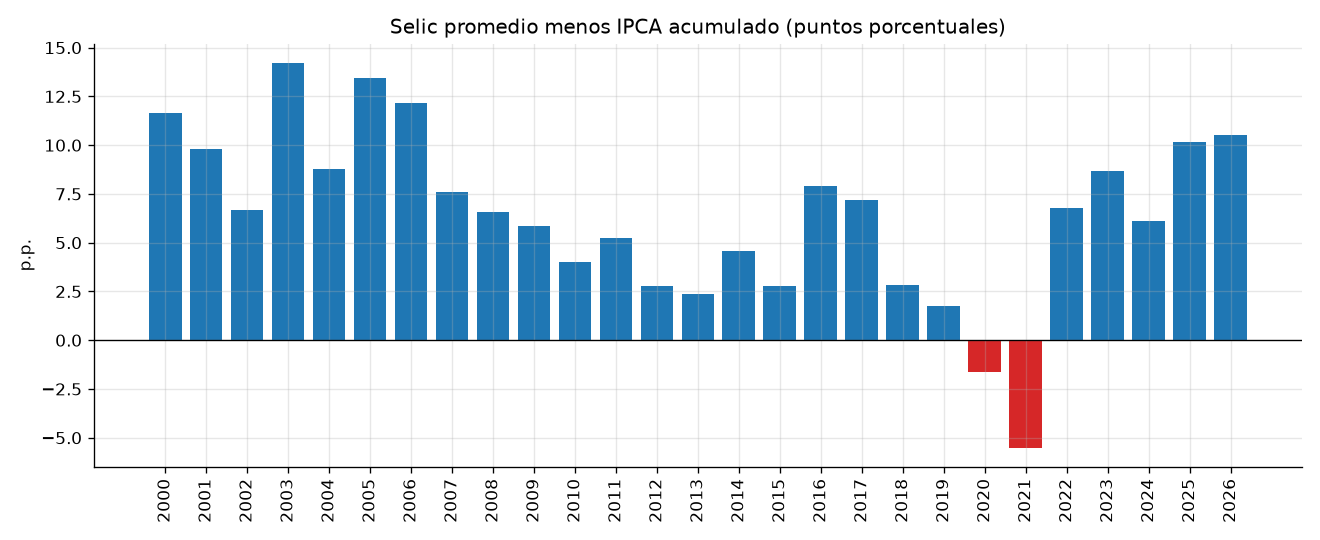
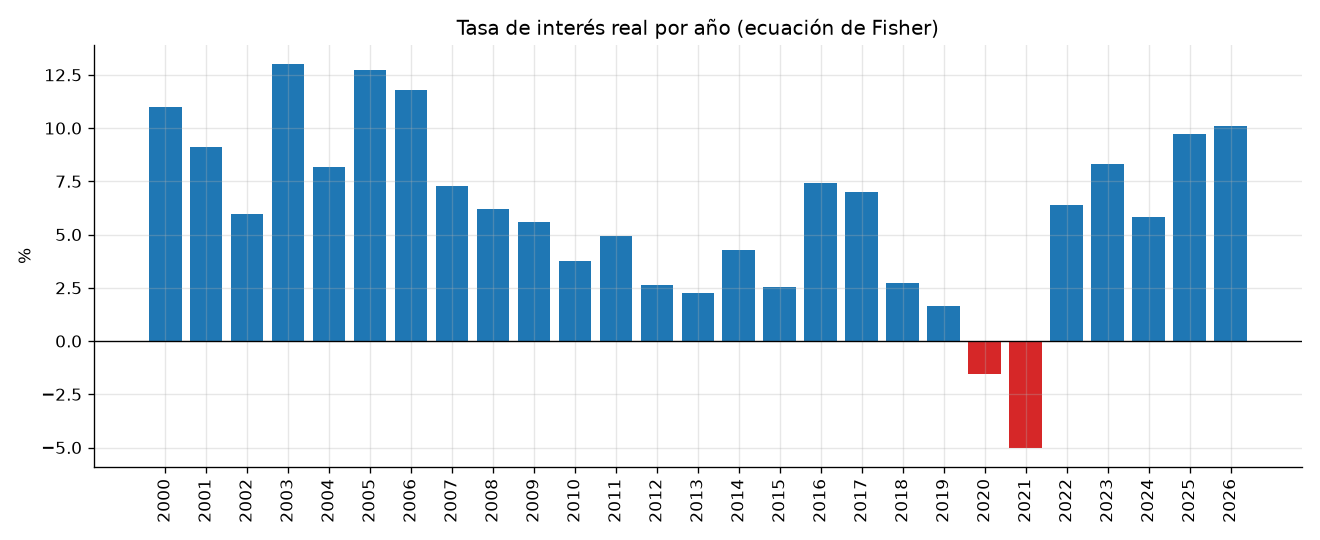
Tasa de interés real con la ecuación de Fisher
- src/consultas.py: tasa_real_fisher(), (1 + i) / (1 + π) − 1; la usan el
  dashboard y el notebook (que ya no repite el cálculo)
- sql/consultas.sql: ipca_anual devuelve tasa_real_pct (Fisher) en vez de
  la resta diferencia_pp
- dashboard: textos en los tres idiomas pasan de "aprox." y p.p. a Fisher y %
- notebook ejecutado de nuevo; figura y capturas actualizadas
- README: hallazgo 3 recalculado (mínimo −4,35 %, máximo 10,78 %, hoy 8,77 %)
- tests: 3 pruebas nuevas (58 en total)

diff --git a/dashboard/idiomas.py b/dashboard/idiomas.py
@@ -35,13 +35,12 @@ TEXTOS = {
         "minimo": "Minimum ({fecha})",
         "selic_meta": "Selic target",
         "ipca_12m": "IPCA 12 months",
-        "tasa_real": "Approx. real rate",
-        "unidad_pp": "pp",
+        "tasa_real": "Real rate (Fisher)",
         "sin_datos_real": "No Selic and IPCA data in the selected range.",
-        "nota_real": "Latest month with IPCA: {mes}. Approx. real rate = Selic target − 12-month IPCA.",
+        "nota_real": "Latest month with IPCA: {mes}. Real rate = (1 + Selic target) / (1 + 12-month IPCA) − 1 (Fisher equation).",
         "linea_selic": "Selic target (% p.a.)",
         "linea_ipca": "IPCA 12 months (%)",
-        "barra_real": "Real rate (pp)",
+        "barra_real": "Real rate (%)",
         "promedio_anual": "Yearly average",
         "datos_filtrados": "Filtered data",
         "descargar": "Download CSV",
@@ -68,13 +67,12 @@ TEXTOS = {
         "minimo": "Mínimo ({fecha})",
         "selic_meta": "Meta Selic",
         "ipca_12m": "IPCA 12 meses",
-        "tasa_real": "Juro real aprox.",
-        "unidad_pp": "p.p.",
+        "tasa_real": "Juro real (Fisher)",
         "sin_datos_real": "Sem dados de Selic e IPCA no período escolhido.",
-        "nota_real": "Último mês com IPCA: {mes}. Juro real aprox. = meta Selic − IPCA acumulado em 12 meses.",
+        "nota_real": "Último mês com IPCA: {mes}. Juro real = (1 + meta Selic) / (1 + IPCA em 12 meses) − 1 (equação de Fisher).",
         "linea_selic": "Meta Selic (% a.a.)",
         "linea_ipca": "IPCA 12 meses (%)",
-        "barra_real": "Juro real (p.p.)",
+        "barra_real": "Juro real (%)",
         "promedio_anual": "Média anual",
         "datos_filtrados": "Dados filtrados",
         "descargar": "Baixar CSV",
@@ -101,13 +99,12 @@ TEXTOS = {
         "minimo": "Mínimo ({fecha})",
         "selic_meta": "Selic meta",
         "ipca_12m": "IPCA 12 meses",
-        "tasa_real": "Tasa real aprox.",
-        "unidad_pp": "p.p.",
+        "tasa_real": "Tasa real (Fisher)",
         "sin_datos_real": "Sin datos de Selic e IPCA en el rango elegido.",
-        "nota_real": "Último mes con IPCA: {mes}. Tasa real aprox. = Selic meta − IPCA acumulado en 12 meses.",
+        "nota_real": "Último mes con IPCA: {mes}. Tasa real = (1 + Selic meta) / (1 + IPCA de 12 meses) − 1 (ecuación de Fisher).",
         "linea_selic": "Selic meta (% a.a.)",
         "linea_ipca": "IPCA 12 meses (%)",
-        "barra_real": "Tasa real (p.p.)",
+        "barra_real": "Tasa real (%)",
         "promedio_anual": "Promedio anual",
         "datos_filtrados": "Datos filtrados",
         "descargar": "Descargar CSV",

diff --git a/tests/test_consultas.py b/tests/test_consultas.py
@@ -58,7 +58,7 @@ def test_selic_vs_ipca_acumula_doce_meses():
     assert list(mensual.index) == [pd.Timestamp("2024-12-01")]
     esperado = (1.01 ** 12 - 1) * 100  # 12,68 %, no 12 %: la inflación se compone
     assert mensual["ipca_12m"].iloc[0] == pytest.approx(esperado)
-    assert mensual["tasa_real"].iloc[0] == pytest.approx(13.75 - esperado)
+    assert mensual["tasa_real"].iloc[0] == pytest.approx((1.1375 / (1 + esperado / 100) - 1) * 100)
 
 
 def test_selic_vs_ipca_toma_la_selic_del_ultimo_dia_del_mes():
@@ -69,3 +69,25 @@ def test_selic_vs_ipca_toma_la_selic_del_ultimo_dia_del_mes():
                          "valor": 0.4})
     mensual = consultas.selic_vs_ipca(pd.concat([selic, ipca]))
     assert mensual["selic"].iloc[-1] == 12.25
+
+
+def test_tasa_real_fisher_casos_conocidos():
+    assert consultas.tasa_real_fisher(10.0, 10.0) == pytest.approx(0.0)
+    assert consultas.tasa_real_fisher(13.75, 4.58) == pytest.approx(8.768, abs=0.001)
+    assert consultas.tasa_real_fisher(2.0, 8.0) == pytest.approx(-5.556, abs=0.001)
+
+
+def test_tasa_real_fisher_es_menor_que_la_resta_con_tasas_positivas():
+    """La resta (i − π) exagera la tasa real; la diferencia crece con la inflación."""
+    for selic, ipca in [(13.75, 4.58), (26.5, 17.24), (6.5, 3.0)]:
+        assert consultas.tasa_real_fisher(selic, ipca) < selic - ipca
+
+
+def test_ipca_anual_usa_fisher(base_de_prueba):
+    """Con Selic 10 % y IPCA 0,5 % mensual (6,17 % anual), la tasa real es 3,6 %."""
+    anual = consultas.ejecutar("ipca_anual")
+    fila = anual[anual["anio"] == "2024"].iloc[0]
+    assert fila["ipca_acumulado_pct"] == pytest.approx((1.005 ** 12 - 1) * 100, abs=0.01)
+    assert fila["tasa_real_pct"] == pytest.approx(
+        consultas.tasa_real_fisher(10.0, fila["ipca_acumulado_pct"]), abs=0.01
+    )

diff --git a/src/consultas.py b/src/consultas.py
@@ -26,14 +26,24 @@ def ejecutar(nombre: str) -> pd.DataFrame:
         return pd.read_sql_query(consultas[nombre], conexion)
 
 
+def tasa_real_fisher(nominal_pct, inflacion_pct):
+    """Tasa de interés real en % con la ecuación de Fisher: (1 + i) / (1 + π) − 1.
+
+    Restar (i − π) es solo una aproximación, que exagera la tasa real cuando las tasas son
+    altas: con Selic 13,75 % e inflación 4,58 % la resta da 9,17 y Fisher da 8,77 %.
+    Acepta números o Series de pandas.
+    """
+    return ((1 + nominal_pct / 100) / (1 + inflacion_pct / 100) - 1) * 100
+
+
 def selic_vs_ipca(series: pd.DataFrame) -> pd.DataFrame:
-    """Devuelve por mes la Selic meta al cierre, el IPCA acumulado en 12 meses y la tasa real."""
+    """Devuelve por mes la Selic meta al cierre, el IPCA acumulado en 12 meses y la tasa real (Fisher)."""
     ipca = series[series["codigo"] == 433].set_index("fecha")["valor"].sort_index()
     ipca_12m = ((1 + ipca / 100).rolling(12).apply(lambda x: x.prod(), raw=True) - 1) * 100
     selic = (series[series["codigo"] == 432].set_index("fecha")["valor"]
              .sort_index().resample("MS").last())
     mensual = pd.DataFrame({"selic": selic, "ipca_12m": ipca_12m}).dropna()
-    mensual["tasa_real"] = mensual["selic"] - mensual["ipca_12m"]
+    mensual["tasa_real"] = tasa_real_fisher(mensual["selic"], mensual["ipca_12m"])
     return mensual
 
 

diff --git a/dashboard/app.py b/dashboard/app.py
@@ -185,7 +185,7 @@ with pestaña_real:
         col1, col2, col3 = st.columns(3)
         col1.metric(T["selic_meta"], f"{ultimo['selic']:.2f} %")
         col2.metric(T["ipca_12m"], f"{ultimo['ipca_12m']:.2f} %")
-        col3.metric(T["tasa_real"], f"{ultimo['tasa_real']:.2f} {T['unidad_pp']}")
+        col3.metric(T["tasa_real"], f"{ultimo['tasa_real']:.2f} %")
         st.caption(T["nota_real"].format(mes=f"{mensual.index[-1]:%m/%Y}"))
 
         fig = go.Figure()

diff --git a/README.es.md b/README.es.md
@@ -16,13 +16,13 @@ Datos de enero de 2000 a octubre de 2026.
 
 1. **Del mínimo histórico a la tasa más alta en casi 20 años.** La Selic meta bajó a un mínimo histórico de **2,00 %** (agosto de 2020 – marzo de 2021) y subió a **15,00 %** en junio de 2025, su nivel más alto desde julio de 2006. Hoy está en 13,75 %.
 2. **Repunte de la inflación tras la pandemia.** El IPCA acumulado en 12 meses pasó de **1,88 %** en mayo de 2020 a **12,13 %** en abril de 2022, el más alto desde 2003. Desde el año 2000, la inflación anual solo superó el 10 % tres veces: 2002 (12,53 %), 2015 (10,67 %) y 2021 (10,06 %). Hoy está en 4,58 % (septiembre de 2026).
-3. **De tasas reales negativas a muy altas.** La tasa real (Selic menos IPCA de 12 meses) fue negativa en 20 de los 22 meses entre julio de 2020 y abril de 2022, con un mínimo de **−4,7 p.p.** en julio de 2021. Después llegó a **11,2 p.p.** en febrero de 2026, la más alta desde junio de 2006.
+3. **De tasas reales negativas a muy altas.** La tasa de interés real (ecuación de Fisher: Selic meta frente a IPCA de 12 meses) fue negativa en 20 de los 22 meses entre julio de 2020 y abril de 2022, con un mínimo de **−4,35 %** en julio de 2021. Después llegó a **10,78 %** en febrero de 2026, la más alta desde junio de 2006. Hoy está en 8,77 %.
 4. **El real perdió casi dos tercios de su valor frente al dólar.** El tipo de cambio pasó de 1,80 BRL/USD en enero de 2000 a 5,04 en octubre de 2026 (+180 %). El real estuvo más fuerte en julio de 2011 (1,53) y más débil el 2 de enero de 2025 (6,21); desde entonces se recuperó un 19 %.
 
 ![Selic vs. IPCA](notebooks/figuras/selic_vs_ipca.png)
 
 ![Tasa real anual](notebooks/figuras/tasa_real_anual.png)
-*Tasa real anual: Selic promedio menos el IPCA de ese año, en puntos porcentuales (el hallazgo 3 usa valores mensuales).*
+*Tasa real anual (ecuación de Fisher) a partir de la Selic promedio y el IPCA de cada año; 2026 incluye solo enero a septiembre. El hallazgo 3 usa valores mensuales.*
 
 ![Dólar](notebooks/figuras/dolar.png)
 
@@ -52,7 +52,7 @@ Fuente: API SGS del BCB, sin registro ni credenciales:
 ## Dashboard
 
 - **Series:** último valor, máximo y mínimo de cada serie en el rango elegido, con su gráfico.
-- **Selic vs. inflación:** Selic meta, IPCA acumulado en 12 meses y tasa real aproximada.
+- **Selic vs. inflación:** Selic meta, IPCA acumulado en 12 meses y tasa de interés real.
 - **Promedio anual y datos:** promedios por año, datos filtrados y descarga en CSV.
 
 En la barra lateral se eligen las series y el rango de fechas; arriba a la derecha está el selector de idioma (English, Português, Español).
@@ -94,13 +94,14 @@ venv/bin/python -m pytest              # todas
 venv/bin/python -m pytest -k tramos    # solo las que contienen "tramos" en el nombre
 ```
 
-55 pruebas que nunca llaman a la API (simulan sus respuestas), así que son rápidas y no fallan si la API está caída. Cubren la división en tramos de 10 años, los reintentos, la conversión de fechas y valores, la carga idempotente e incremental, la creación segura de la base, el respaldo, la actualización en segundo plano, las consultas SQL, el IPCA acumulado y las traducciones del dashboard. GitHub Actions las ejecuta con Python 3.11 y 3.12 en cada push.
+58 pruebas que nunca llaman a la API (simulan sus respuestas), así que son rápidas y no fallan si la API está caída. Cubren la división en tramos de 10 años, los reintentos, la conversión de fechas y valores, la carga idempotente e incremental, la creación segura de la base, el respaldo, la actualización en segundo plano, las consultas SQL, el IPCA acumulado y las traducciones del dashboard. GitHub Actions las ejecuta con Python 3.11 y 3.12 en cada push.
 
 ## Notas técnicas
 
 - La API devuelve fechas `dd/mm/aaaa` y valores como texto; al cargar se convierten a fecha ISO y a número.
 - Las series diarias aceptan como máximo **10 años por consulta**, por eso la descarga se hace por tramos.
 - Ante errores de red, respuestas `503` o páginas que no son JSON, se reintenta con esperas crecientes.
+- **Tasa de interés real:** se calcula con la ecuación de Fisher, `(1 + Selic) / (1 + IPCA) − 1`, en `tasa_real_fisher()` (`src/consultas.py`), que comparten el notebook y el dashboard. El atajo habitual `Selic − IPCA` la exagera cuando las tasas son altas: hoy daría 9,17 en vez de 8,77 %.
 - **Respaldo:** la API a veces no responde durante horas. Un GitHub Action programado descarga cada día los datos nuevos y actualiza `data/respaldo.csv.gz` (unos 60 KB), con un commit solo si los datos cambiaron. El dashboard y `python -m src.db` parten de él cuando no hay base. Para generarlo a mano: `venv/bin/python -m src.db --exportar-respaldo`.
 - Tabla `series` de la base: `codigo` INTEGER, `nombre` TEXT, `fecha` TEXT (ISO), `valor` REAL, clave primaria (`codigo`, `fecha`).
 
@@ -133,6 +134,5 @@ sqlite3 data/panorama.db "SELECT fecha, valor FROM series WHERE codigo = 1 ORDER
 
 ## Próximos pasos
 
-- [ ] Tasa real exacta con la ecuación de Fisher
 - [ ] Separar las dependencias del dashboard y las de desarrollo
 - [ ] Más series: desempleo, CDI, IPCA oficial de 12 meses

diff --git a/README.md b/README.md
@@ -16,14 +16,14 @@ Data from January 2000 to October 2026.
 
 1. **From a record low to the highest rate in almost 20 years.** The Selic target rate was cut to a record low of **2.00%** (August 2020 – March 2021), then raised to **15.00%** in June 2025, its highest level since July 2006. It is now 13.75%.
 2. **Post-pandemic inflation spike.** 12-month inflation (IPCA) rose from **1.88%** in May 2020 to **12.13%** in April 2022, the highest since 2003. Since 2000, yearly inflation has only exceeded 10% three times: 2002 (12.53%), 2015 (10.67%) and 2021 (10.06%). It is now 4.58% (September 2026).
-3. **From negative to very high real interest rates.** The real rate (Selic minus 12-month IPCA) was negative in 20 of the 22 months between July 2020 and April 2022, bottoming at **−4.7 pp** in July 2021. It then peaked at **11.2 pp** in February 2026, the highest since June 2006.
+3. **From negative to very high real interest rates.** The real interest rate (Fisher equation: Selic target vs. 12-month IPCA) was negative in 20 of the 22 months between July 2020 and April 2022, bottoming at **−4.35%** in July 2021. It then peaked at **10.78%** in February 2026, the highest since June 2006. It is now 8.77%.
 4. **The real lost almost two-thirds of its value against the dollar.** The exchange rate went from 1.80 BRL/USD in January 2000 to 5.04 in October 2026 (+180%). The real was strongest in July 2011 (1.53) and weakest on 2 January 2025 (6.21); since then it has recovered 19%.
 
 ![Selic vs. IPCA](notebooks/figuras/selic_vs_ipca.png)
 *Selic target vs. 12-month IPCA; shaded: Selic below inflation. Charts come from the notebook, which is in Spanish.*
 
 ![Yearly real interest rate](notebooks/figuras/tasa_real_anual.png)
-*Yearly real rate: average Selic minus that year's IPCA, in percentage points (finding 3 uses monthly values).*
+*Yearly real rate (Fisher equation) from the average Selic and that year's IPCA; 2026 covers January–September only. Finding 3 uses monthly values.*
 
 ![US dollar](notebooks/figuras/dolar.png)
 *US dollar selling rate (BRL/USD).*
@@ -54,7 +54,7 @@ Source: BCB SGS API, no registration or credentials needed:
 ## Dashboard
 
 - **Series:** latest value, maximum and minimum of each series in the selected range, with its chart.
-- **Selic vs. inflation:** Selic target, 12-month IPCA and approximate real interest rate.
+- **Selic vs. inflation:** Selic target, 12-month IPCA and real interest rate.
 - **Yearly average and data:** yearly averages, filtered data and CSV download.
 
 Series and date range are chosen in the sidebar; the language selector (English, Português, Español) is at the top right.
@@ -95,13 +95,14 @@ venv/bin/pip install -r requirements-dev.txt
 venv/bin/python -m pytest
 ```
 
-55 tests that never call the API (responses are simulated), so they are fast and do not fail when the API is down. They cover the 10-year chunking, retries, date and value conversion, idempotent and incremental loading, safe database creation, the backup file, the background update, the SQL queries, the 12-month IPCA compounding and the dashboard translations. GitHub Actions runs them on Python 3.11 and 3.12 on every push.
+58 tests that never call the API (responses are simulated), so they are fast and do not fail when the API is down. They cover the 10-year chunking, retries, date and value conversion, idempotent and incremental loading, safe database creation, the backup file, the background update, the SQL queries, the 12-month IPCA compounding and the dashboard translations. GitHub Actions runs them on Python 3.11 and 3.12 on every push.
 
 ## Technical notes
 
 - The API returns dates as `dd/mm/yyyy` and values as text; both are converted on load (ISO dates, floats).
 - Daily series accept at most **10 years per request**, so downloads are split into chunks.
 - Network errors, `503` responses and non-JSON pages are retried with increasing waits.
+- **Real interest rate:** computed with the Fisher equation, `(1 + Selic) / (1 + IPCA) − 1`, in `tasa_real_fisher()` (`src/consultas.py`), shared by the notebook and the dashboard. The common shortcut `Selic − IPCA` overstates it when rates are high: today it would give 9.17 instead of 8.77%.
 - **Backup:** the API sometimes stops responding for hours. A scheduled GitHub Action downloads new data every day and updates `data/respaldo.csv.gz` (about 60 KB), committing only when the data changed. The dashboard and `python -m src.db` start from it when there is no database.
 - Database table `series`: `codigo` INTEGER, `nombre` TEXT, `fecha` TEXT (ISO), `valor` REAL, primary key (`codigo`, `fecha`).
 
@@ -136,6 +137,5 @@ The code, comments and notebook are written in Spanish.
 
 ## Roadmap
 
-- [ ] Exact real interest rate with the Fisher equation
 - [ ] Separate dashboard and development dependencies
 - [ ] More series: unemployment, CDI, official 12-month IPCA
